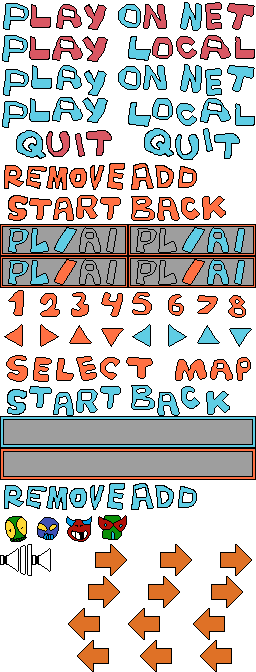
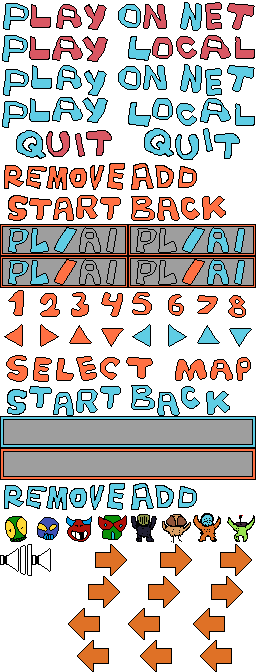
Added different player textures (currently only 4) with 4 directions and "won"/"dead"-states.

Changed region(s): [[0.5, 0.75, 1.0, 0.8125]]

diff --git a/src/main/java/map/GraphicalGameMap.java b/src/main/java/map/GraphicalGameMap.java
@@ -1,5 +1,6 @@
 package map;
 
+import actor.Player;
 import com.badlogic.gdx.graphics.OrthographicCamera;
 import com.badlogic.gdx.graphics.Texture;
 import com.badlogic.gdx.graphics.g2d.SpriteBatch;
@@ -9,7 +10,6 @@ import com.badlogic.gdx.maps.tiled.TiledMapTileLayer;
 import com.badlogic.gdx.maps.tiled.TmxMapLoader;
 import com.badlogic.gdx.maps.tiled.renderers.OrthogonalTiledMapRenderer;
 import com.badlogic.gdx.maps.tiled.tiles.StaticTiledMapTile;
-import actor.Player;
 
 import static screens.PlayScreen.ASSETS_IMAGE_SIZE;
 import static screens.PlayScreen.PIXEL_SCALE_FOR_ASSETS;
@@ -20,7 +20,11 @@ public class GraphicalGameMap extends GameMap {
     TiledMapTileLayer boardLayer, laserLayer, assetLayer, playerLayer;
 
     TextureRegion[][] playerImages;
-    TiledMapTileLayer.Cell playerCellNorth, playerCellEast, playerCellSouth, playerCellWest, playerWonCell, playerDiedCell;
+    TiledMapTileLayer.Cell[]player1Cells = new TiledMapTileLayer.Cell[6];
+    TiledMapTileLayer.Cell[]player2Cells = new TiledMapTileLayer.Cell[6];
+    TiledMapTileLayer.Cell[]player3Cells = new TiledMapTileLayer.Cell[6];
+    TiledMapTileLayer.Cell[]player4Cells = new TiledMapTileLayer.Cell[6];
+    TiledMapTileLayer.Cell[][] playerCells = new TiledMapTileLayer.Cell[4][6];;
 
     public GraphicalGameMap() {
         tiledMap = new TmxMapLoader().load("gameboard2.tmx");
@@ -31,14 +35,42 @@ public class GraphicalGameMap extends GameMap {
         assetLayer = (TiledMapTileLayer) tiledMap.getLayers().get("AssetLayer");
         laserLayer = (TiledMapTileLayer) tiledMap.getLayers().get("LaserLayer");
 
-        playerImages  = TextureRegion.split(new Texture("player.png"), 300, 300);
-        playerCellNorth = new TiledMapTileLayer.Cell().setTile(new StaticTiledMapTile(playerImages[1][1]));
-        playerCellEast = new TiledMapTileLayer.Cell().setTile(new StaticTiledMapTile(playerImages[1][2]));
-        playerCellSouth = new TiledMapTileLayer.Cell().setTile(new StaticTiledMapTile(playerImages[0][0]));
-        playerCellWest = new TiledMapTileLayer.Cell().setTile(new StaticTiledMapTile(playerImages[1][0]));
-        playerWonCell = new TiledMapTileLayer.Cell().setTile(new StaticTiledMapTile(playerImages[0][2]));
-        playerDiedCell = new TiledMapTileLayer.Cell().setTile(new StaticTiledMapTile(playerImages[0][1]));
+        playerImages  = TextureRegion.split(new Texture("charactersSpriteSheet300.png"), 300, 300);
 
+        player1Cells[0] = new TiledMapTileLayer.Cell().setTile(new StaticTiledMapTile(playerImages[1][1])); // north
+        player1Cells[1] = new TiledMapTileLayer.Cell().setTile(new StaticTiledMapTile(playerImages[0][1])); // east
+        player1Cells[2] = new TiledMapTileLayer.Cell().setTile(new StaticTiledMapTile(playerImages[0][0]));// south
+        player1Cells[3] = new TiledMapTileLayer.Cell().setTile(new StaticTiledMapTile(playerImages[1][0])); // west
+        player1Cells[4] = new TiledMapTileLayer.Cell().setTile(new StaticTiledMapTile(playerImages[2][0]));  // won
+        player1Cells[5] = new TiledMapTileLayer.Cell().setTile(new StaticTiledMapTile(playerImages[2][1])); // died
+
+        player2Cells[0] = new TiledMapTileLayer.Cell().setTile(new StaticTiledMapTile(playerImages[1][3])); // north
+        player2Cells[1] = new TiledMapTileLayer.Cell().setTile(new StaticTiledMapTile(playerImages[0][3])); // east
+        player2Cells[2] = new TiledMapTileLayer.Cell().setTile(new StaticTiledMapTile(playerImages[0][2]));// south
+        player2Cells[3] = new TiledMapTileLayer.Cell().setTile(new StaticTiledMapTile(playerImages[1][2])); // west
+        player2Cells[4] = new TiledMapTileLayer.Cell().setTile(new StaticTiledMapTile(playerImages[2][2]));  // won
+        player2Cells[5] = new TiledMapTileLayer.Cell().setTile(new StaticTiledMapTile(playerImages[2][3])); // died
+
+        player3Cells[0] = new TiledMapTileLayer.Cell().setTile(new StaticTiledMapTile(playerImages[4][1])); // north
+        player3Cells[1] = new TiledMapTileLayer.Cell().setTile(new StaticTiledMapTile(playerImages[3][1]));  // east
+        player3Cells[2] = new TiledMapTileLayer.Cell().setTile(new StaticTiledMapTile(playerImages[3][0])); // south
+        player3Cells[3] = new TiledMapTileLayer.Cell().setTile(new StaticTiledMapTile(playerImages[4][0]));  // west
+        player3Cells[4] = new TiledMapTileLayer.Cell().setTile(new StaticTiledMapTile(playerImages[5][0]));   // won
+        player3Cells[5] = new TiledMapTileLayer.Cell().setTile(new StaticTiledMapTile(playerImages[5][1]));  // died
+
+        player4Cells[0] = new TiledMapTileLayer.Cell().setTile(new StaticTiledMapTile(playerImages[4][3])); // north
+        player4Cells[1] = new TiledMapTileLayer.Cell().setTile(new StaticTiledMapTile(playerImages[3][3]));  // east
+        player4Cells[2] = new TiledMapTileLayer.Cell().setTile(new StaticTiledMapTile(playerImages[3][2])); // south
+        player4Cells[3] = new TiledMapTileLayer.Cell().setTile(new StaticTiledMapTile(playerImages[4][2]));  // west
+        player4Cells[4] = new TiledMapTileLayer.Cell().setTile(new StaticTiledMapTile(playerImages[5][2]));   // won
+        player4Cells[5] = new TiledMapTileLayer.Cell().setTile(new StaticTiledMapTile(playerImages[5][3]));  // died
+
+
+
+        playerCells[0] = player1Cells;
+        playerCells[1] = player2Cells;
+        playerCells[2] = player3Cells;
+        playerCells[3] = player4Cells;
 
         /*
         Pits
@@ -137,24 +169,24 @@ public class GraphicalGameMap extends GameMap {
     }
 
     public void setPlayerPosition(int x, int y, Player player) {
-        TiledMapTileLayer.Cell cellToBeDisplayed = playerCellNorth;
+        TiledMapTileLayer.Cell cellToBeDisplayed = playerCells[player.getCharacterID()][0];
         if (player.isPlayerDead()) {
-            cellToBeDisplayed = playerDiedCell;
+            cellToBeDisplayed =  playerCells[player.getCharacterID()][5];
         } else if (player.getVictorious()) {
-            cellToBeDisplayed = playerWonCell;
+            cellToBeDisplayed =  playerCells[player.getCharacterID()][4];
         } else {
             switch (player.getDirection()) {
                 case (0):
-                    cellToBeDisplayed = playerCellNorth;
+                    cellToBeDisplayed =  playerCells[player.getCharacterID()][0];
                     break;
                 case (1):
-                    cellToBeDisplayed = playerCellEast;
+                    cellToBeDisplayed =  playerCells[player.getCharacterID()][1];
                     break;
                 case (2):
-                    cellToBeDisplayed = playerCellSouth;
+                    cellToBeDisplayed =  playerCells[player.getCharacterID()][2];
                     break;
                 case (3):
-                    cellToBeDisplayed = playerCellWest;
+                    cellToBeDisplayed =  playerCells[player.getCharacterID()][3];
                     break;
             }
         }

diff --git a/src/main/java/screens/LocalSetupScreen.java b/src/main/java/screens/LocalSetupScreen.java
@@ -24,7 +24,8 @@ public class LocalSetupScreen extends AbstractScreen implements InputProcessor {
     Texture localSetupTexture;
     TextureRegion[][] localSetupRegionBy256, localSetupRegionBy128, localSetupRegionBy32, localSetupRegionBy64;
     TextureRegion selectMap, add, addHovered, remove, removeHovered, start, back, startJumbled, backJumbled;
-    TextureRegion plSelected, plSelectedHovered, aiSelected, aiSelectedHovered, scrollLeft, face, scrollRight, moveUp, moveDown;
+    TextureRegion plSelected, plSelectedHovered, aiSelected, aiSelectedHovered, scrollLeft, scrollRight, moveUp, moveDown;
+    TextureRegion character1, character2, character3, character4;
     TextureRegion nameEditSquareActive, nameEditSquareInactive;
 
     GameButton startBtn, backBtn, addBtn;
@@ -37,6 +38,7 @@ public class LocalSetupScreen extends AbstractScreen implements InputProcessor {
     GameButton[] plOrAiButtons;
 
     TextureRegion[] numbers;
+    TextureRegion[] characters;
 
     BitmapFont font;
 
@@ -79,7 +81,6 @@ public class LocalSetupScreen extends AbstractScreen implements InputProcessor {
         scrollRight = localSetupRegionBy32[10][1];
         moveUp = localSetupRegionBy32[10][2];
         moveDown = localSetupRegionBy32[10][3];
-        face = localSetupRegionBy32[16][2];
         plSelected = localSetupRegionBy128[8][0];
         aiSelected = localSetupRegionBy128[8][1];
         plSelectedHovered = localSetupRegionBy128[7][0];
@@ -95,9 +96,13 @@ public class LocalSetupScreen extends AbstractScreen implements InputProcessor {
 
         numbers = new TextureRegion[maxPlayers];
         for (int i = 0; i < maxPlayers; i++) {
-            numbers[i] = (localSetupRegionBy32[9][i]);
+            numbers[i] = localSetupRegionBy32[9][i];
         }
 
+        characters = new TextureRegion[4]; // TODO: should be "maxPlayers" instead of 4, change when all 8 characters are done!
+        for (int i = 0; i < maxPlayers; i++) {
+            characters[i] = localSetupRegionBy32[16][4+i];
+        }
 
         for (int i = 0; i < maxPlayers; i++) {
             editNameButtons[i] = new GameButton(colElemPos[1], rowElemPos[i], 256,32, false, nameEditSquareInactive);
@@ -280,8 +285,8 @@ public class LocalSetupScreen extends AbstractScreen implements InputProcessor {
 
     public void showAddedPlayerRows(SpriteBatch batch, int index) {
         batch.draw(numbers[index], colElemPos[0], rowElemPos[index], numbers[index].getRegionWidth(), numbers[index].getRegionHeight());
+        batch.draw(characters[index], scrollLeftButtons[index].getX()+scrollLeftButtons[index].getWidth(), scrollLeftButtons[index].getY(), characters[index].getRegionHeight(), characters[index].getRegionHeight());
         batch.draw(scrollLeftButtons[index].getTexture(), scrollLeftButtons[index].getX(), scrollLeftButtons[index].getY(), scrollLeftButtons[index].getWidth(), scrollLeftButtons[index].getHeight());
-        batch.draw(face, scrollLeftButtons[index].getX()+scrollLeftButtons[index].getWidth(), scrollLeftButtons[index].getY(), face.getRegionHeight(), face.getRegionHeight());
         batch.draw(scrollRightButtons[index].getTexture(), scrollRightButtons[index].getX(), scrollRightButtons[index].getY(), scrollRightButtons[index].getWidth(), scrollRightButtons[index].getHeight());
         batch.draw(plOrAiButtons[index].getTexture(),scrollRightButtons[index].getX() + scrollRightButtons[index].getWidth()+2, scrollRightButtons[index].getY(), plSelected.getRegionWidth(), plSelected.getRegionHeight());
         batch.draw(moveUpButtons[index].getTexture(), moveUpButtons[index].getX(), moveUpButtons[index].getY(), moveUpButtons[index].getWidth(), moveUpButtons[index].getHeight());
@@ -313,10 +318,10 @@ public class LocalSetupScreen extends AbstractScreen implements InputProcessor {
     private void startButtonClicked() {
         GraphicalGameMap gameMap = new GraphicalGameMap();
         PlayerQueue playerQueue = new PlayerQueue();
-        int k = 2;
+        int spawnIncrementerY = 2;
         for (int i = 0; i < playersAdded; i++) {
-            playerQueue.add(new Player(k, 2, allStringBuilders[i].toString(), gameMap));
-            k++;
+            playerQueue.add(new Player(spawnIncrementerY, 2, allStringBuilders[i].toString(), gameMap, i));
+            spawnIncrementerY++;
         }
         gameApplication.gameScreenManager.initPlayScreen(gameMap, playerQueue);
         gameApplication.gameScreenManager.setScreen(GameScreenManager.STATE.PLAY);

diff --git a/src/main/java/actor/Player.java b/src/main/java/actor/Player.java
@@ -20,15 +20,17 @@ public class Player implements IPlayer {
     public ArrayList<RegisterCard> chosenRegisterCards;
     GameMap gameMap;
     public String playerName;
+    private int characterID;
 
-    public Player(int x, int y, String playerName, GameMap gameMap) {
+    public Player(int x, int y, String playerName, GameMap gameMap, int characterID) {
         this.x = this.spawnX = x;
         this.y = this.spawnY = y;
-        dmgTokens = 4;
-        lifeTokens = 3;
         this.playerName = playerName;
         this.direction = 0; // Initially faces NORTH
         this.gameMap = gameMap;
+        this.characterID = characterID;
+        dmgTokens = 4;
+        lifeTokens = 3;
         flagsReached = new boolean[4];
     }
 
@@ -174,4 +176,7 @@ public class Player implements IPlayer {
 
     public boolean getVictorious() { return isVictorious; }
 
+    public int getCharacterID() {
+        return characterID;
+    }
 }

diff --git a/src/test/java/logic/PlayerQueueTest.java b/src/test/java/logic/PlayerQueueTest.java
@@ -11,8 +11,8 @@ public class PlayerQueueTest {
     public void test2PlayerQueue() {
         TextualGameMap simpleGameMap = new TextualGameMap(12, 12);
         PlayerQueue playerQueue = new PlayerQueue();
-        Player player1 = new Player(1,1,"player1", simpleGameMap);
-        Player player2 = new Player(2,1,"player2", simpleGameMap);
+        Player player1 = new Player(1,1,"player1", simpleGameMap, 0);
+        Player player2 = new Player(2,1,"player2", simpleGameMap, 1);
         playerQueue.add(player1);
         playerQueue.add(player2);
         GameLogic gameLogic = new GameLogic(simpleGameMap, playerQueue);

diff --git a/src/test/java/map/TextualGameMapTest.java b/src/test/java/map/TextualGameMapTest.java
@@ -10,7 +10,7 @@ public class TextualGameMapTest {
     @Test
     public void testPlayerOnGameMap() {
         TextualGameMap textualGameMap = new TextualGameMap(12, 12);
-        Player player = new Player(0, 0, "testPlayer", textualGameMap);
+        Player player = new Player(0, 0, "testPlayer", textualGameMap, 0);
         textualGameMap.setPlayerPosition(0,0, player);
         assertEquals(1, textualGameMap.getValue(0,0));
     }

diff --git a/src/test/java/actor/PlayerTest.java b/src/test/java/actor/PlayerTest.java
@@ -12,7 +12,7 @@ import static org.junit.Assert.*;
 public class PlayerTest {
 
     TextualGameMap simpleGameMap = new TextualGameMap(12, 12);
-    Player player = new Player(1,1,"player", simpleGameMap);
+    Player player = new Player(1,1,"player", simpleGameMap, 0);
 
     @Test
     public void testPlayerMoveXDirection() {
